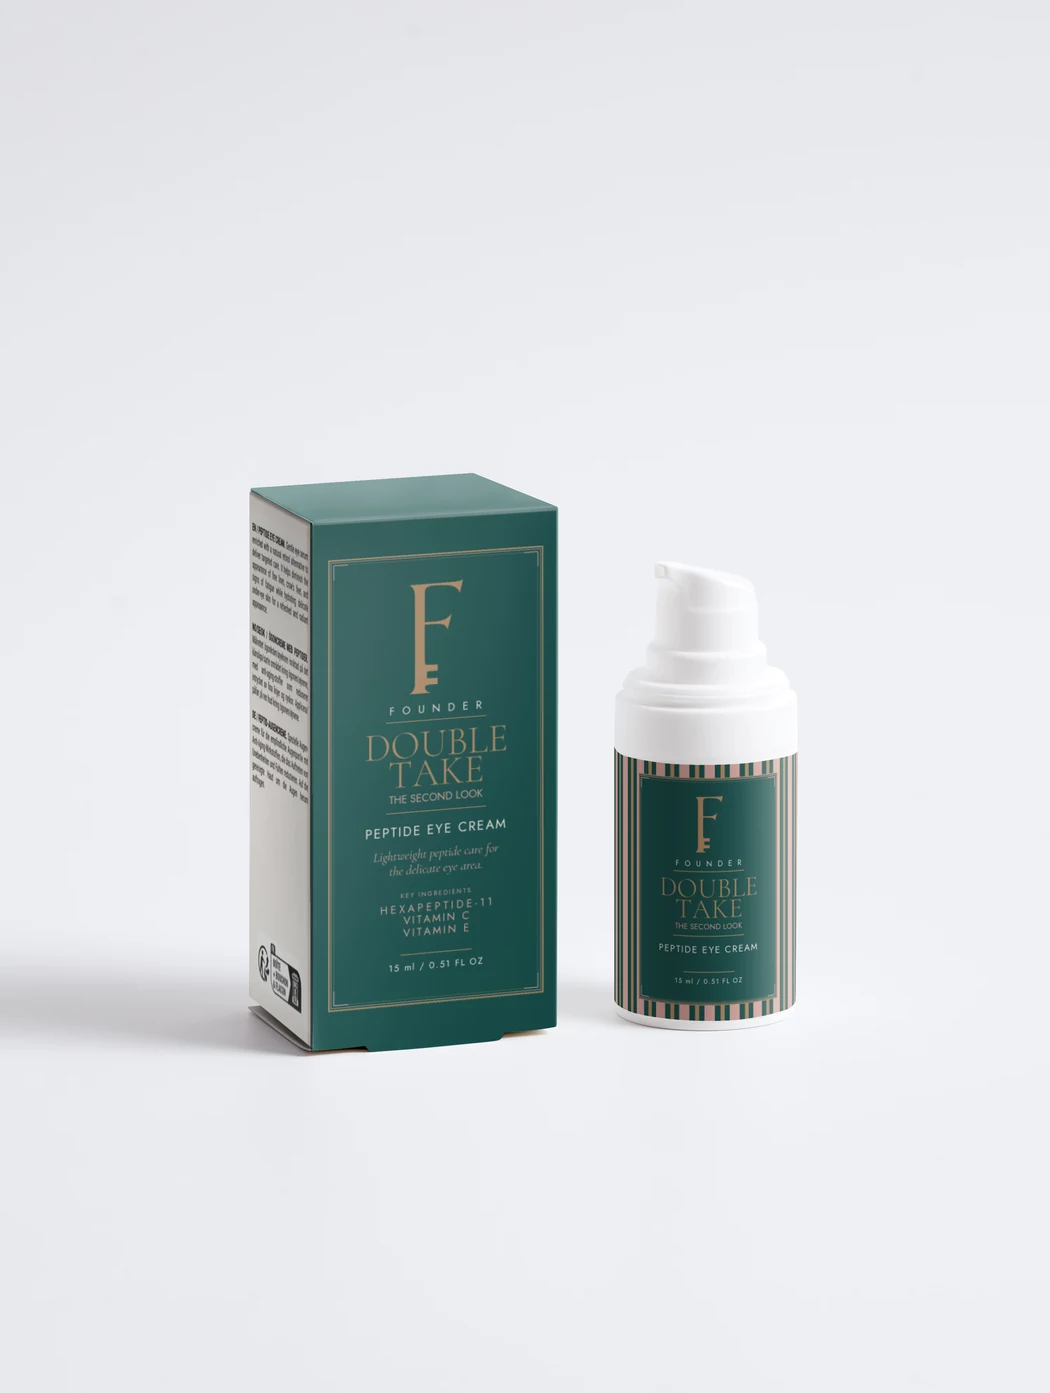
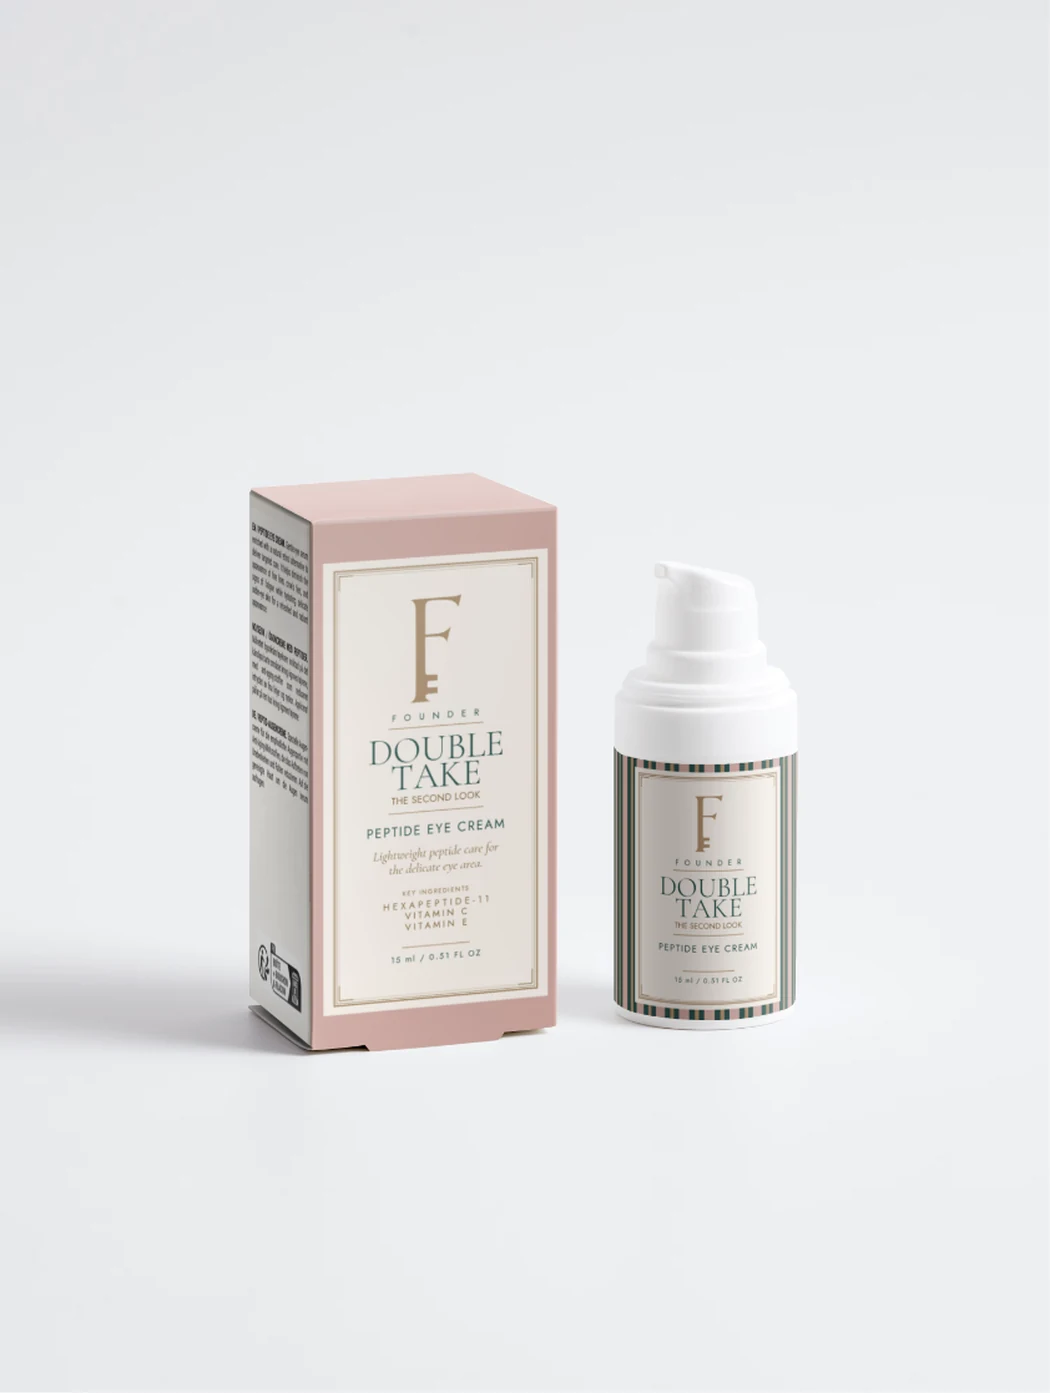
Pink packaging reaches the storefront
HOLD THE ROOM and DOUBLE TAKE changed colourway on 11 Sep — Desert Pink
field, Champagne Cream cartouche, gold crest — and every packshot on the
site still showed the green pack they replaced.

Replaces the four packshots that carry artwork, cut from the current
Selfnamed renders: -pack.webp (collection card hover, Hold the Room's
product page) and -cut.webp (homepage card). Alt text follows: these two
packs no longer read "Founder Green with desert rose stripes".

Shopify is updated in the same pass — both listings now lead with the
pink render and the old green media is removed.

NOT fixed here, because it cannot be: the editorial heroes
(hold-the-room-hero, double-take-hero, hold-the-room-vanity-mirror) are
generated room scenes with the green carton baked into them. They are the
largest images on the collection and product pages and they are now wrong.
They need regenerating from the new packshots, not editing.

Claude-Session: https://claude.ai/code/session_01Ur261Wsau2RympRHJCG9oK

Changed region(s): [[0.2438, 0.3396, 0.5486, 0.7717], [0.579, 0.5248, 0.7619, 0.7408]]

diff --git a/src/app/page.tsx b/src/app/page.tsx
@@ -101,7 +101,7 @@ const LINE = [
     name: holdTheRoom.name,
     descriptor: `${holdTheRoom.category} · ${holdTheRoom.size}`,
     image: "/products/hold-the-room-cut.webp",
-    alt: "Hold the Room: the airless bottle and its carton, Founder Green with desert rose and green stripes.",
+    alt: "Hold the Room: the airless bottle and its carton, Desert Pink with a cream cartouche and gold crest.",
     href: "/products/hold-the-room",
     state: "Preorder · Ships from the first run",
     action: `Preorder · ${formatPrice(holdTheRoom.price)}`,
@@ -113,7 +113,7 @@ const LINE = [
     name: bySlug["double-take"].name,
     descriptor: `${bySlug["double-take"].category} · ${bySlug["double-take"].size}`,
     image: "/products/double-take-cut.webp",
-    alt: "Double Take: the small eye-cream bottle and its carton, Founder Green with desert rose and green stripes.",
+    alt: "Double Take: the small eye-cream bottle and its carton, Desert Pink with a cream cartouche and gold crest.",
     href: "/products/double-take",
     state: "In stock · Ships in one business day",
     action: `Shop · ${formatPrice(bySlug["double-take"].price)}`,

diff --git a/src/lib/founderCollection.ts b/src/lib/founderCollection.ts
@@ -145,7 +145,7 @@ export const FOUNDER_COLLECTION: FounderProduct[] = [
     origin: "Made in North America.",
     bottle: "/products/hold-the-room-pack.webp",
     bottleAlt:
-      "The Hold the Room airless pump bottle beside its Founder Green carton, the bottle wrapped in desert rose and green stripes, its plaque reading Hold the Room, the anchor, peptide moisturizing cream.",
+      "The Hold the Room airless pump bottle beside its Desert Pink carton, both carrying a Champagne Cream cartouche with a gold F-key crest, the label reading Hold the Room, the anchor, peptide moisturizing cream.",
     howToUse: [
       {
         step: "Clean skin first",

diff --git a/src/lib/nextMove.ts b/src/lib/nextMove.ts
@@ -364,7 +364,7 @@ export const NEXT_MOVE: NextMoveProduct[] = [
     ink: "var(--color-founder-green)",
     pack: {
       src: "/products/double-take-pack.webp",
-      alt: "The Double Take airless pump bottle beside its Founder Green carton, the bottle wrapped in desert rose and green stripes, its plaque reading Double Take, the second look, peptide eye cream.",
+      alt: "The Double Take airless pump bottle beside its Desert Pink carton, both carrying a Champagne Cream cartouche with a gold F-key crest, the label reading Double Take, the second look, peptide eye cream.",
     },
     scene: {
       src: "/products/double-take-hero.webp",

diff --git a/src/app/founder-collection/page.tsx b/src/app/founder-collection/page.tsx
@@ -97,7 +97,7 @@ export default async function FounderCollectionPage() {
             },
             hoverImage: {
               url: "/products/hold-the-room-pack.webp",
-              alt: "Hold the Room, bottle and carton together against a clean ground.",
+              alt: "Hold the Room, the Desert Pink carton and its matching bottle together against a clean ground.",
             },
             character: `02 · ${product.archetype}`,
             descriptor: product.category,
